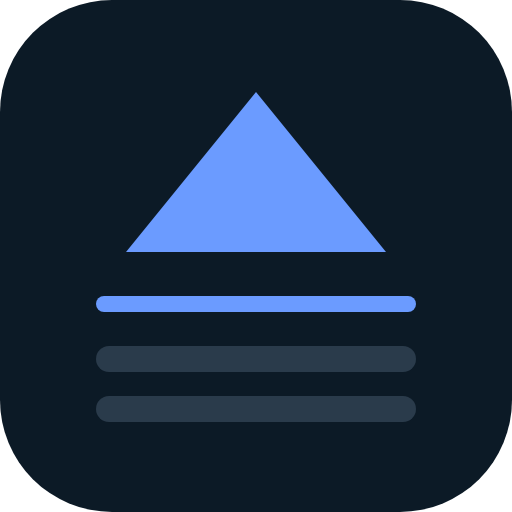
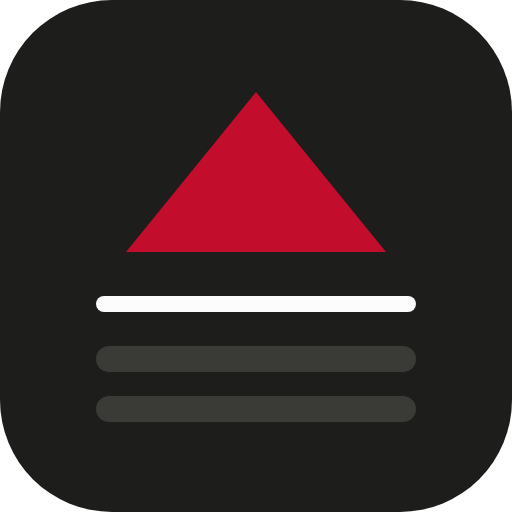
Use BK Union's colours: red, white and charcoal

Changed region(s): [[0.25, 0.1875, 0.75, 0.5], [0.1875, 0.5625, 0.8125, 0.625]]

diff --git a/build.py b/build.py
@@ -95,20 +95,20 @@ def apply_history(teams):
 
 
 CSS = """
-:root{color-scheme:dark;--bg:#060b11;--panel:#0d1925;--panel2:#112133;--line:#172636;--bd:#1f3042;--fg:#f4f7fa;--mute:#adb9c5;--up:#3ddc84;--down:#ff6b75;--bup:#2563d6;--bupd:#1d4ea8;--bout:#a3281f;--blue:#7aa5ff;--gold:#ffc83d}
+:root{color-scheme:dark;--bg:#0d0d0c;--panel:#171716;--panel2:#1f1f1d;--line:#262624;--bd:#2f2f2c;--fg:#fafafa;--mute:#b8b8b4;--up:#3ddc84;--down:#ff8080;--promo:#c20d2d;--promo-dark:#9e0b25;--out:#4a4a46;--accent:#ff8a9b;--dot:#fff}
 *{box-sizing:border-box}
-body{margin:0;background:radial-gradient(70rem 26rem at 50% -8rem,rgba(37,99,214,.3),transparent 70%) no-repeat,var(--bg);color:var(--fg);font:16px/1.4 system-ui,-apple-system,"Segoe UI",sans-serif;-webkit-font-smoothing:antialiased}
+body{margin:0;background:radial-gradient(70rem 26rem at 50% -8rem,rgba(194,13,45,.28),transparent 70%) no-repeat,var(--bg);color:var(--fg);font:16px/1.4 system-ui,-apple-system,"Segoe UI",sans-serif;-webkit-font-smoothing:antialiased}
 .in{max-width:46rem;margin:0 auto;padding:0 .75rem 3rem}
 .hero{padding:1.75rem .25rem .25rem}
 .hero+h2{margin-top:.715rem}
-.kick{display:inline-block;margin:0 0 .8rem;padding:.3rem .75rem;border-radius:2rem;background:rgba(122,165,255,.12);border:1px solid rgba(122,165,255,.3);font-size:.8rem;font-weight:700;letter-spacing:.08em;text-transform:uppercase;color:var(--blue)}
+.kick{display:inline-block;margin:0 0 .8rem;padding:.3rem .75rem;border-radius:2rem;background:rgba(194,13,45,.16);border:1px solid rgba(194,13,45,.5);font-size:.8rem;font-weight:700;letter-spacing:.08em;text-transform:uppercase;color:var(--accent)}
 h1{font-size:2.5rem;line-height:1.05;font-weight:800;letter-spacing:-.02em;margin:0}
 .sub{margin:.75rem 0 0;color:var(--mute);font-size:1.05rem;max-width:44ch}
 .chips{display:flex;flex-wrap:wrap;gap:.5rem;margin:1rem 0 0;padding:0;list-style:none}
 .chips li{padding:.35rem .8rem;border-radius:2rem;background:var(--panel);border:1px solid var(--bd);font-size:.88rem;color:var(--mute)}
 .chips b{color:var(--fg)}
 h2{display:flex;align-items:center;gap:.6rem;margin:1.75rem .25rem .2rem;font-size:1.2rem;font-weight:800}
-h2 span{padding:.15rem .65rem;border-radius:2rem;background:var(--bupd);font-size:.78rem;font-weight:700;letter-spacing:.04em}
+h2 span{padding:.15rem .65rem;border-radius:2rem;background:var(--promo-dark);font-size:.78rem;font-weight:700;letter-spacing:.04em}
 .note{margin:.2rem .25rem .8rem;font-size:.92rem;color:var(--mute);max-width:56ch}
 .card{background:var(--panel);border:1px solid var(--bd);border-radius:1rem;overflow:hidden;box-shadow:0 .5rem 1.5rem rgba(0,0,0,.35)}
 table{width:100%;border-collapse:collapse;table-layout:fixed;font-variant-numeric:tabular-nums}
@@ -120,11 +120,11 @@ th:first-child,td.rk{text-align:left;padding-left:calc(.8rem + .22rem)}  /* .22r
 .tm{text-align:left;padding-left:.25rem}
 .tm b{display:block;font-size:.875rem;font-weight:650;line-height:1.3}
 .tm small{display:block;font-size:.8rem;color:var(--mute)}
-.dot{display:inline-block;width:.6rem;height:.6rem;margin-left:.45rem;border-radius:50%;background:var(--gold);box-shadow:0 0 0 .18rem rgba(255,200,61,.25)}
+.dot{display:inline-block;width:.6rem;height:.6rem;margin-left:.45rem;border-radius:50%;background:var(--dot);box-shadow:0 0 0 .18rem rgba(255,255,255,.25)}
 .bd{display:inline-block;min-width:1.9rem;padding:.15rem .3rem;border-radius:.6rem;background:var(--bd);font-weight:700;font-size:.95rem;line-height:1.2;text-align:center}
-.b-up,.up .bd{background:var(--bup)} .b-out,.out .bd{background:var(--bout)}
-.up{background:linear-gradient(90deg,rgba(37,99,214,.16),transparent 70%)}
-.up td.rk{box-shadow:inset .22rem 0 0 var(--bup)}
+.b-up,.up .bd{background:var(--promo)} .b-out,.out .bd{background:var(--out)}
+.up{background:linear-gradient(90deg,rgba(194,13,45,.16),transparent 70%)}
+.up td.rk{box-shadow:inset .22rem 0 0 var(--promo)}
 .mv{display:block;width:1.9rem;margin-top:.15rem;text-align:center;font-size:.75rem;font-style:normal;font-weight:700;color:var(--mute)}
 .mv.u{color:var(--up)} .mv.d{color:var(--down)}
 .out .tm b{color:var(--mute)}
@@ -195,7 +195,7 @@ def render(teams):
     return f"""<!doctype html>
 <html lang="da"><head><meta charset="utf-8">
 <meta name="viewport" content="width=device-width, initial-scale=1">
-<meta name="theme-color" content="#060b11">
+<meta name="theme-color" content="#0d0d0c">
 <title>{TITLE}</title>
 <meta name="description" content="{DESC}">
 <link rel="icon" href="favicon.svg" type="image/svg+xml">
